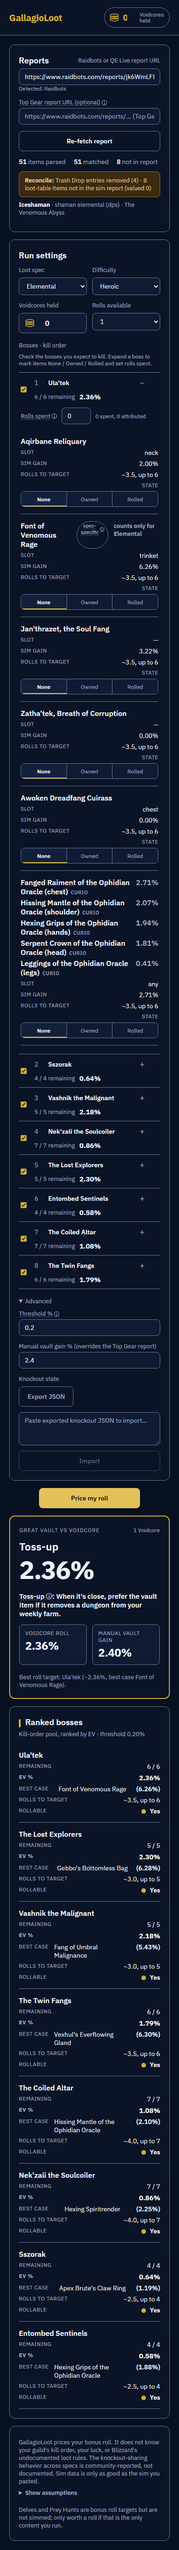
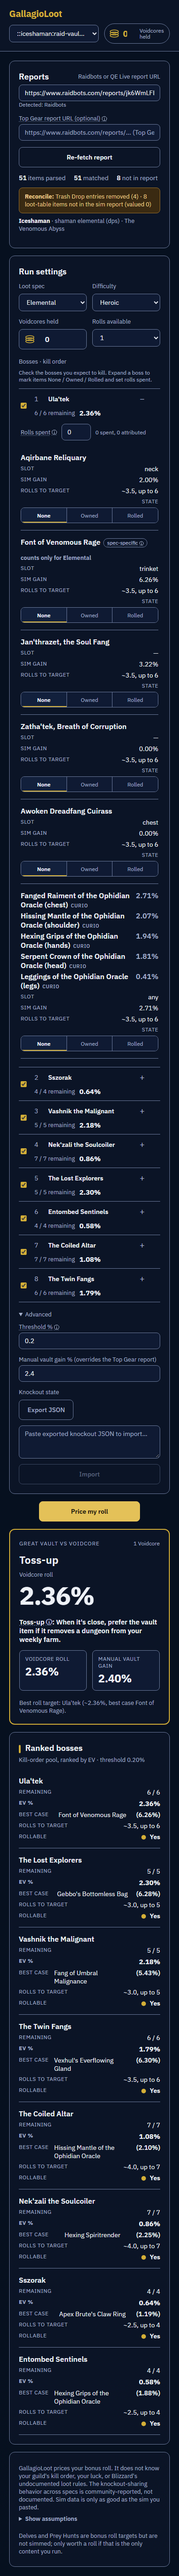
Toss-up card: label the big number 'Voidcore roll'; fix spec-specific pill circle at 390px
Items 4 and 5 share web/src/theme.css. The same CSS change also lets a long
character key in the header switcher shrink, since the switcher fix made it
visible on first load and it overflowed the 390px header.

Changed region(s): [[0.0615, 0.0, 0.9538, 0.9977], [0.6154, 0.2806, 0.6462, 0.3118]]

diff --git a/web/src/theme.css b/web/src/theme.css
@@ -188,6 +188,24 @@ input[type='checkbox']:checked {
   display: flex;
   align-items: center;
   gap: var(--space-6);
+  min-width: 0;
+  max-width: 100%;
+}
+
+/* A long character key must shrink (ellipsis) rather than push the header past the viewport. */
+.app-header__controls > div {
+  min-width: 0;
+  max-width: 100%;
+}
+
+.app-header__controls select {
+  min-width: 0;
+  flex: 0 1 auto;
+  text-overflow: ellipsis;
+}
+
+.app-header__controls .voidcore-pill {
+  flex: none;
 }
 
 /* Screen tab bar (Paste/Reconcile/Loot table/Recommendation), from the v2 design export.
@@ -530,6 +548,24 @@ tr.excluded .deploy-table__ev {
     content: none;
   }
 
+  /* The Item cell's children (name, tag, spec-specific pill, note) are flex items here.
+     Let them wrap onto new lines and keep the pill at its natural width -- otherwise flex
+     shrinks it to a sliver and its 999px radius renders a circle. */
+  .fold-table td[data-label='Item'] {
+    flex-wrap: wrap;
+    justify-content: flex-start;
+    align-items: baseline;
+    column-gap: var(--space-3);
+  }
+
+  .fold-table td[data-label='Item'] .badge {
+    flex: none;
+  }
+
+  .fold-table td[data-label='Item'] .note-line {
+    flex-basis: 100%;
+  }
+
   /* .loot-item-table's desktop per-column percent/px widths (needed for its
      table-layout: fixed) outrank the generic .fold-table td { width: 100% } rule on
      specificity alone -- so every folded cell (not just State) was still boxed to its
@@ -665,6 +701,7 @@ tr.excluded .deploy-table__ev {
 
 .badge {
   display: inline-block;
+  white-space: nowrap;
   padding: 2px 8px;
   border-radius: 999px;
   font-size: 11px;
@@ -812,6 +849,12 @@ tr.excluded .deploy-table__ev {
   letter-spacing: -0.02em;
   color: var(--text);
   line-height: 1;
+}
+
+.rec-card__pct-label {
+  flex-basis: 100%;
+  font-size: 13px;
+  color: var(--text-secondary);
 }
 
 .rec-card__pct-caption {

diff --git a/web/test/recommendationCard.test.tsx b/web/test/recommendationCard.test.tsx
@@ -1,0 +1,51 @@
+import { afterEach, describe, expect, it } from 'vitest'
+import { act, createElement } from 'react'
+import { createRoot, type Root } from 'react-dom/client'
+import { RecommendationCard } from '../src/components/RecommendationCard'
+import type { CardData } from '../src/lib/cardData'
+
+;(globalThis as { IS_REACT_ACT_ENVIRONMENT?: boolean }).IS_REACT_ACT_ENVIRONMENT = true
+
+let container: HTMLDivElement | null = null
+let root: Root | null = null
+
+function render(card: CardData) {
+  container = document.createElement('div')
+  document.body.appendChild(container)
+  root = createRoot(container)
+  act(() => {
+    root!.render(createElement(RecommendationCard, { card }))
+  })
+  return container
+}
+
+afterEach(() => {
+  if (root && container) act(() => root!.unmount())
+  container?.remove()
+  container = null
+  root = null
+})
+
+const base: CardData = {
+  verdict: 'toss-up',
+  headline: 'Toss-up',
+  pct: 0.68,
+  rollsAvailable: 1,
+  tossUp: true,
+  tossUpNote: 'close',
+  vaultCompare: { voidcorePct: 0.68, vaultPct: 0.74, vaultItemName: 'Vile Vial of Volatile Venom' },
+} as CardData
+
+describe('RecommendationCard toss-up number label', () => {
+  it('labels the big number "Voidcore roll" on a vault-vs-Voidcore toss-up', () => {
+    const el = render(base)
+    const row = el.querySelector('.rec-card__pct-row')!
+    expect(row.querySelector('.rec-card__pct-label')?.textContent).toBe('Voidcore roll')
+    expect(row.querySelector('.rec-card__pct')?.textContent).toBe('0.68%')
+  })
+
+  it('has no label on a plain roll verdict', () => {
+    const el = render({ ...base, verdict: 'roll', headline: 'Roll X', vaultCompare: undefined, tossUp: false } as CardData)
+    expect(el.querySelector('.rec-card__pct-label')).toBeNull()
+  })
+})

diff --git a/web/src/components/RecommendationCard.tsx b/web/src/components/RecommendationCard.tsx
@@ -51,6 +51,7 @@ export function RecommendationCard({ card, onPrimaryAction, stale }: { card: Car
         </div>
       ) : (
         <div className="rec-card__pct-row">
+          {card.verdict === 'toss-up' && card.vaultCompare && <div className="rec-card__pct-label">Voidcore roll</div>}
           <div className="rec-card__pct num">{card.pct.toFixed(2)}%</div>
           {card.verdict === 'roll' && <div className="rec-card__pct-caption">expected gain from this Voidcore</div>}
         </div>
